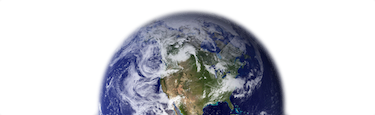
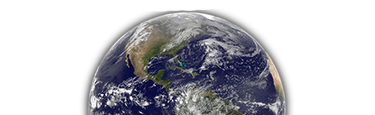
ADD - Dynamic planet images

diff --git a/main.js b/main.js
@@ -64,6 +64,7 @@ const planetRadiusElement = document.getElementById("planet-radius");
 const planetDistanceElement = document.getElementById("planet-distance");
 const planetDescription = document.getElementById("planet-desc");
 const planetType = document.getElementById("planet-type");
+const planetImgElement = document.getElementById("planet-img");
 
 let sideMenuElement = document.getElementById("side-menu");
 let isShowingSideMenu = false;
@@ -146,6 +147,7 @@ function refreshPlanetInfo(planet) {
   planetDistanceElement.innerText = "Distance from Sun:\n" + planet.distanceFromSunInAU + " AU";
   planetDescription.innerText = planet.desc;
   planetType.innerText = planet.type;
+  planetImgElement.src = `pictures/${planet.name.toLowerCase()}.png`;
 }
 
 // on click - callback

diff --git a/index.html b/index.html
@@ -18,8 +18,7 @@
     <h1 id="planet-name" class="text">Earth</h1>
     <div id="planet-type" class="text">Terrestrial Planet</div>
     <div class="text">
-      <img id="planet-img" src="pictures/earth.png" style="max-width: 100%; margin-top: 35px;">
-      <!-- sfuma 4px photopea -->
+      <img id="planet-img" src="" style="max-width: 100%; margin-top: 35px;">
     </div>
     <div id="planet-desc" class="text">Earth—our home planet—is the only place we know of so far that’s inhabited by living things. It's also the only planet in our solar system with liquid water on the surface.</div>
     <div class="flex-container-horizontal">
